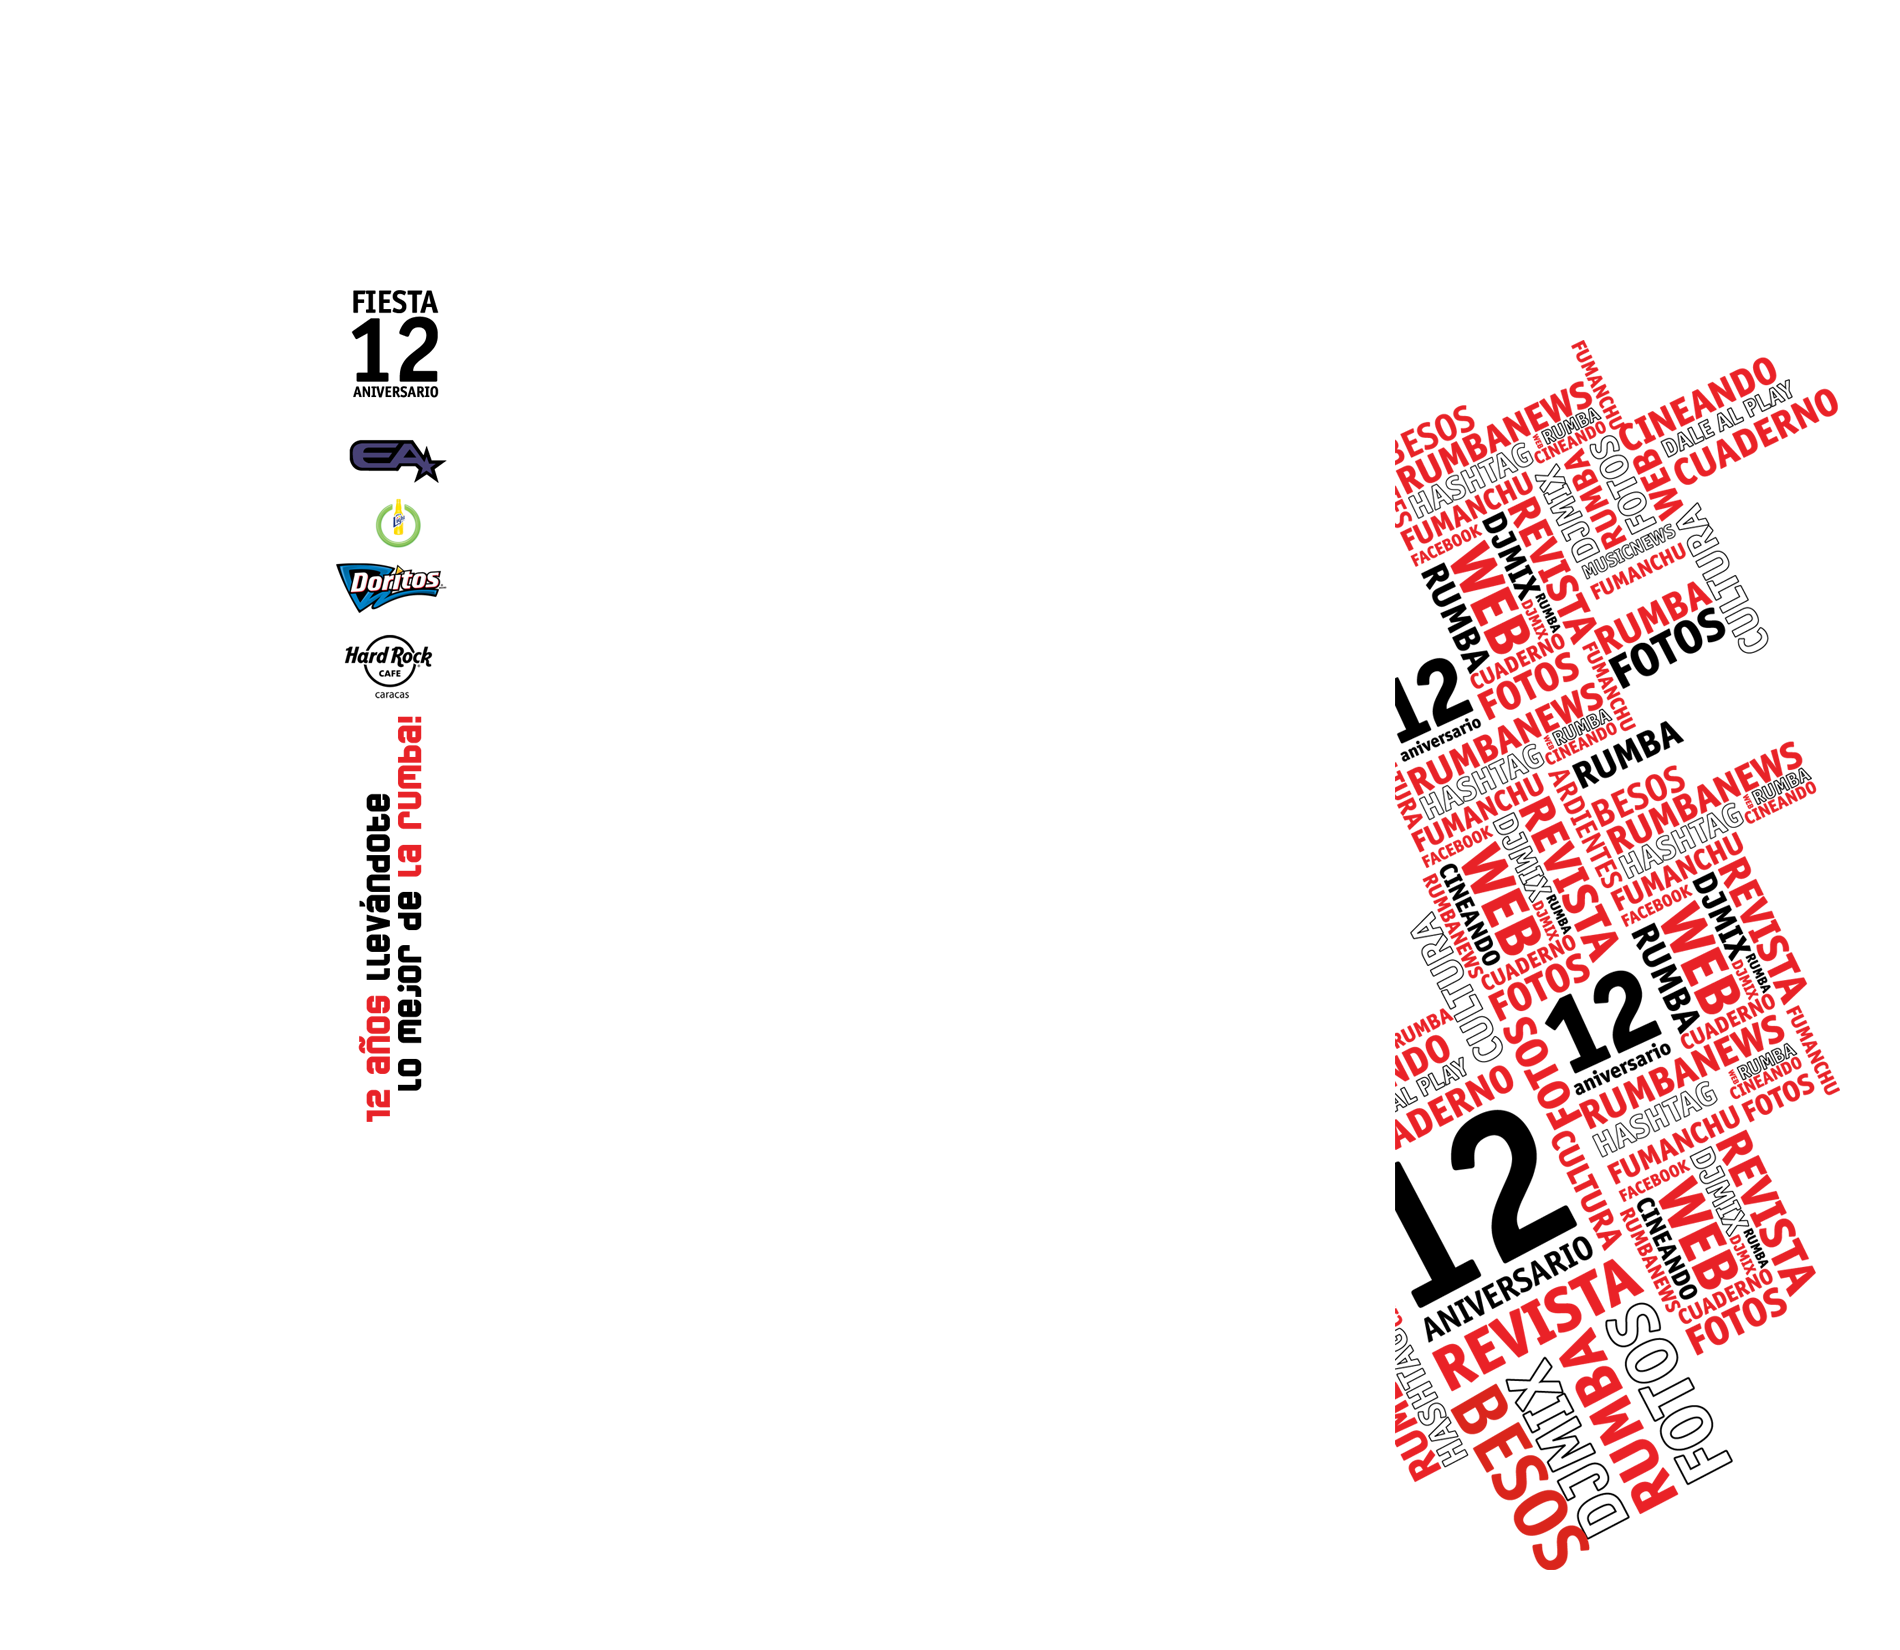
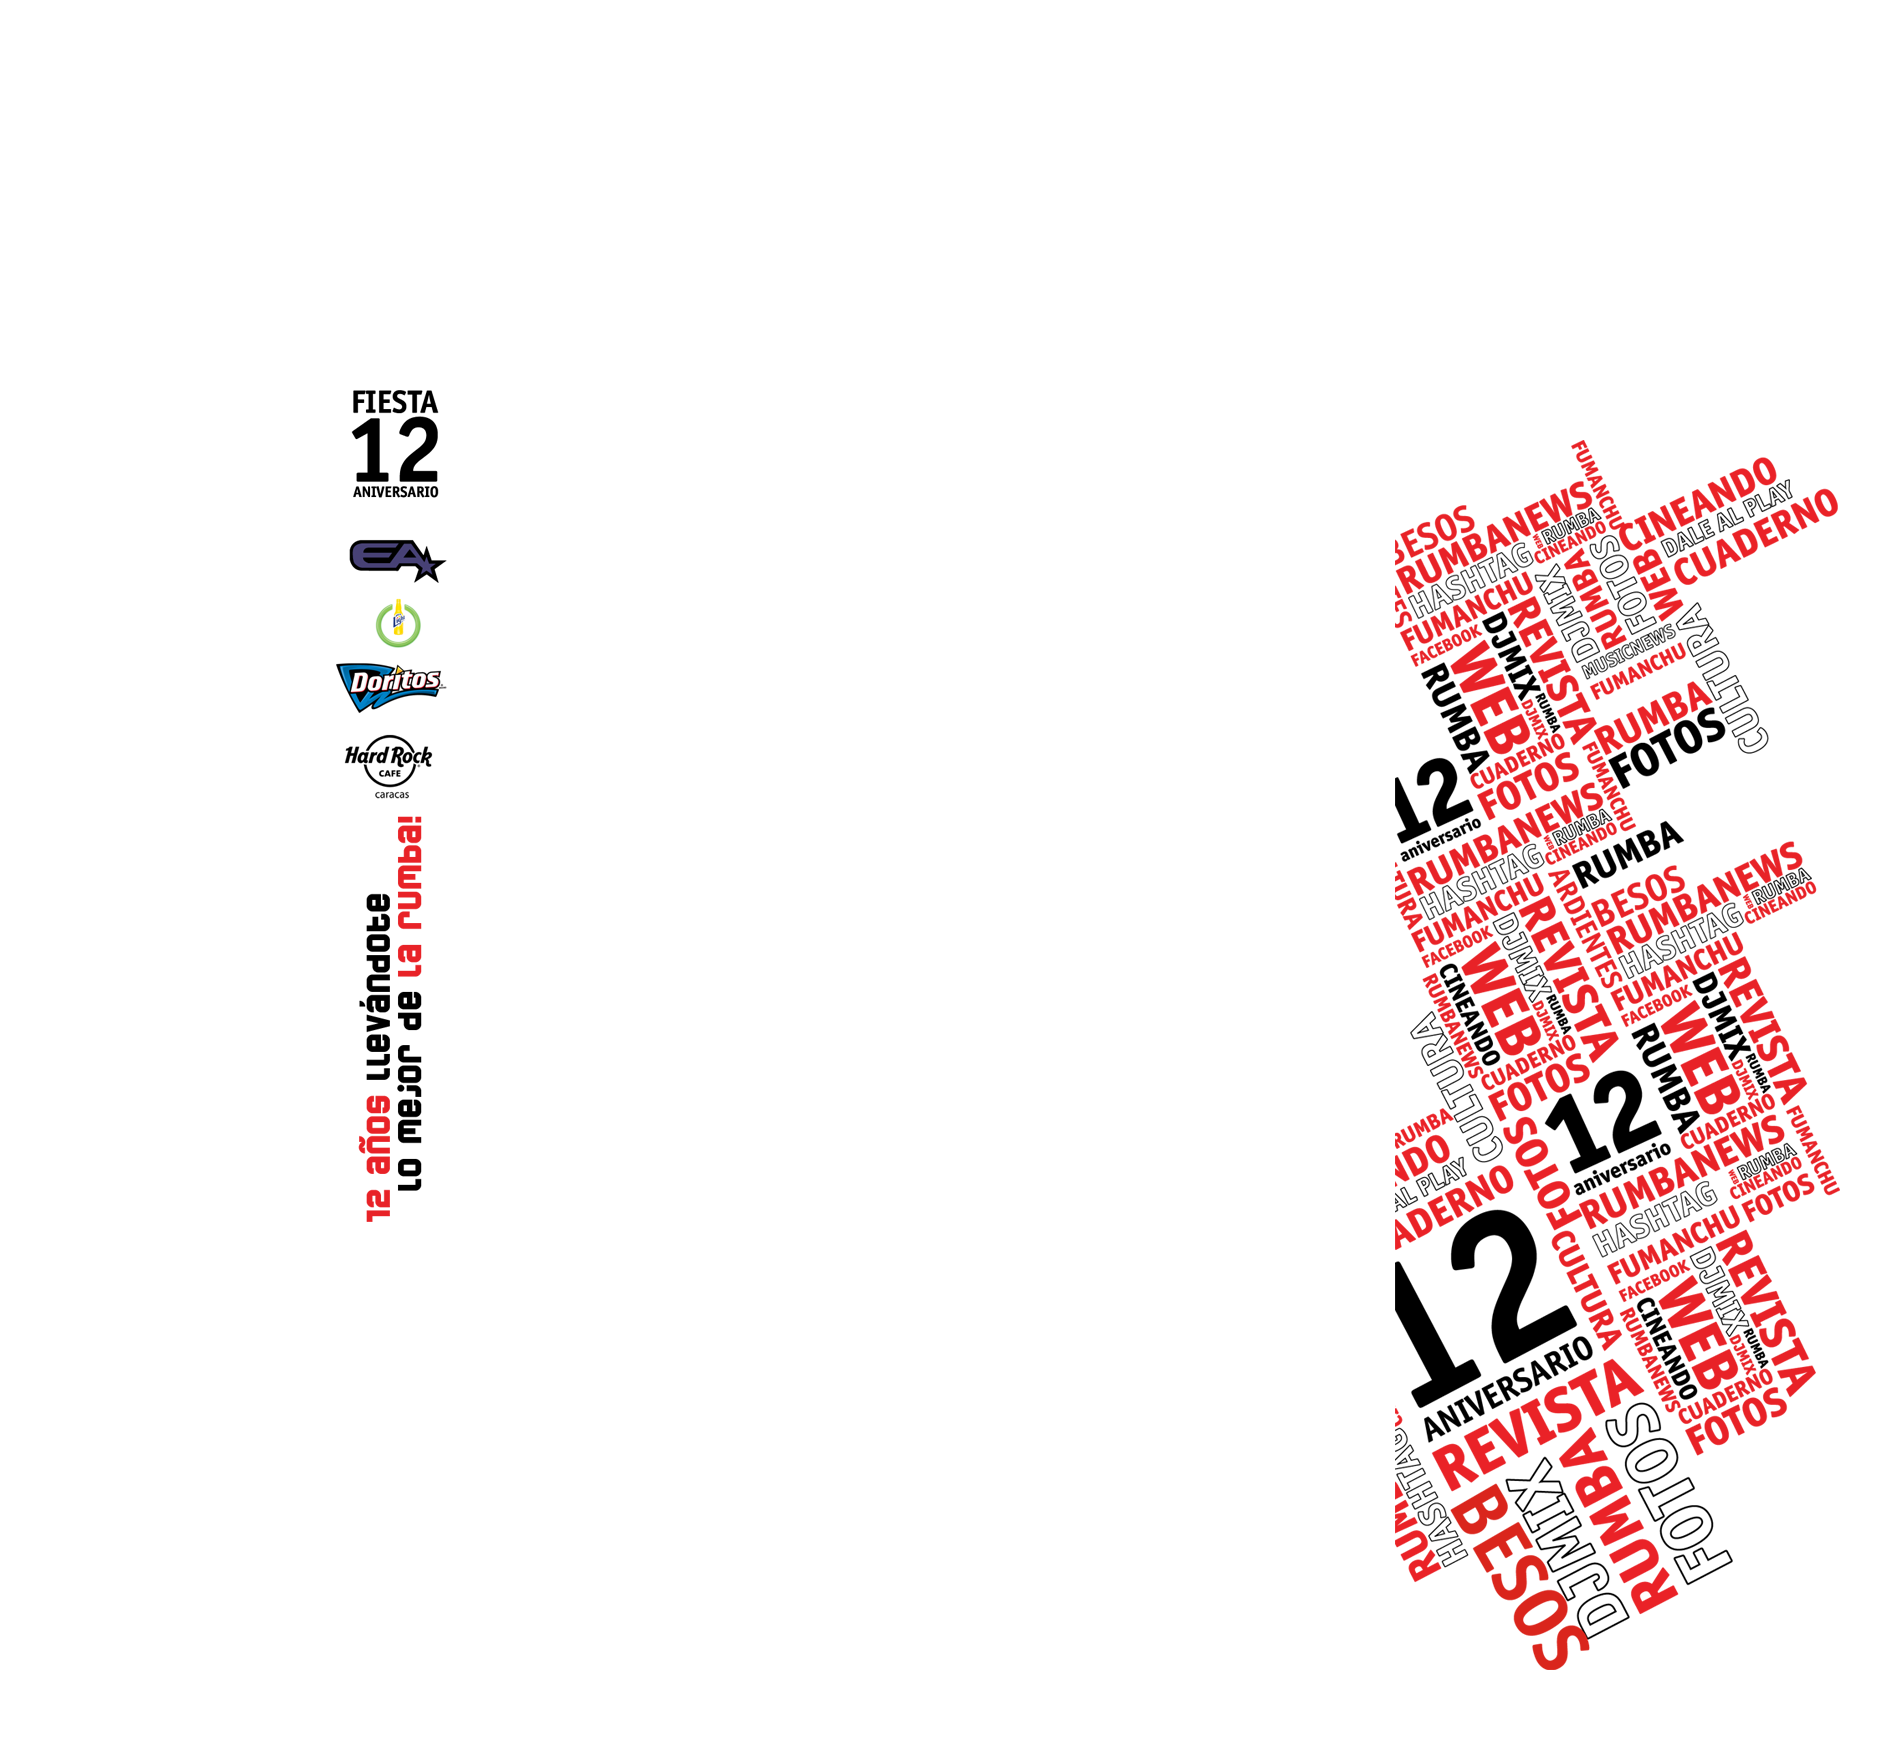
fix background

Changed region(s): [[0.7142, 0.2164, 0.9626, 0.9582], [0.1553, 0.1545, 0.2484, 0.7109]]

diff --git a/templates/base.html b/templates/base.html
@@ -88,7 +88,7 @@
 <body class=" {% block advbodycls %}{% endblock %}">
 	{% facebook_js_tag %}
 	{% twitter_js_tag %}
-  <div class="main-wrapper" style='background:url("{{ STATIC_URL }}images/background8.png") no-repeat scroll 50% 185px transparent;'>
+  <div class="main-wrapper" style='background:url("{{ STATIC_URL }}images/background.png") no-repeat scroll 50% top transparent;'>
   <div id="header-primary" class="header-primary no-deco outnone">
 
     <div class="container">
